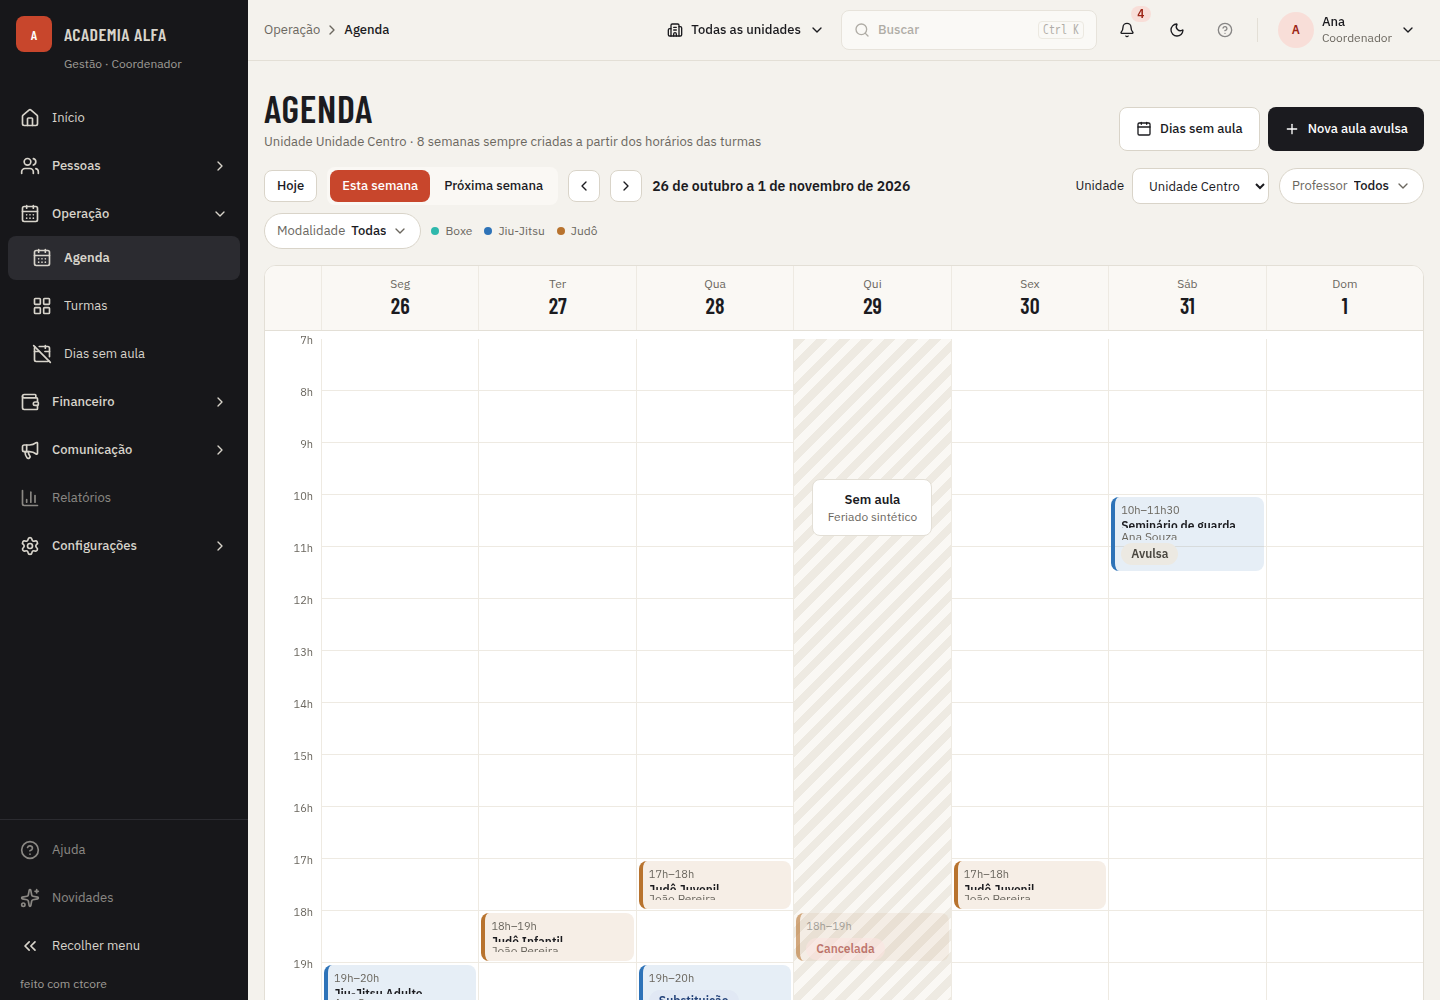
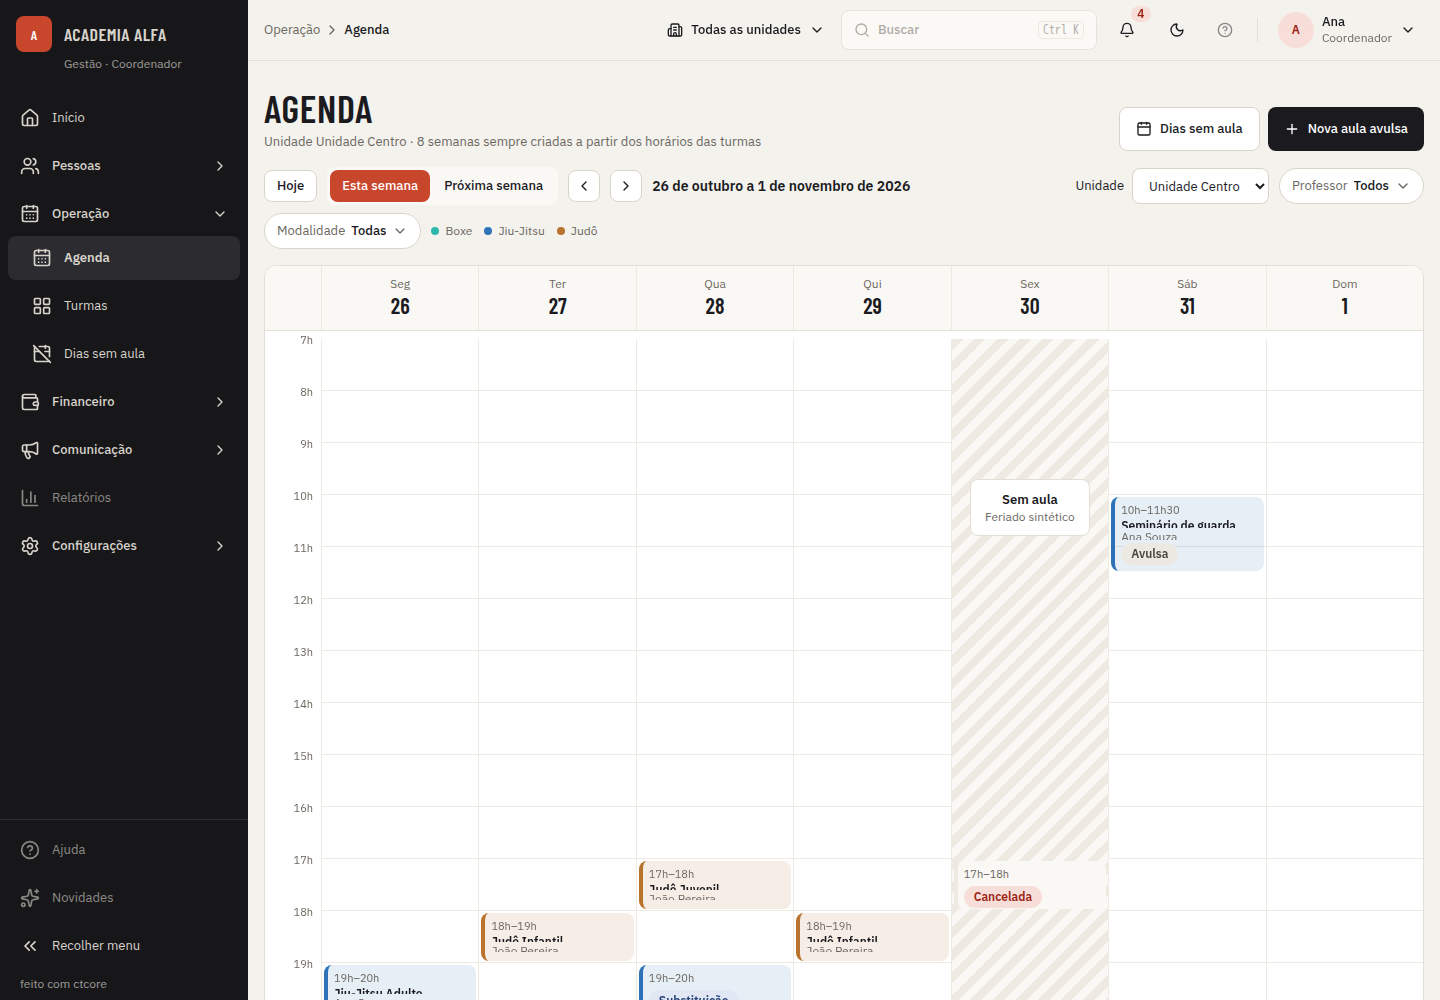
#692: Dia sem aula do mock fixo em 27/11: calcular do relógio e fixar o relógio em no-class-days e comunicados (antes de 30/11)

Changed region(s): [[0.5312, 0.341, 0.7812, 1.0]]

diff --git a/frontend/src/mocks/handlers.ts b/frontend/src/mocks/handlers.ts
@@ -719,14 +719,17 @@ type MockDay = { id: string; unitId: string; startsOn: string; endsOn: string; r
 // RF-AGE-05 (#474): feriados que a unidade ignorou ("Ignorar" não tem desfazer na tela).
 let mockIgnoredHolidays: { unitId: string; date: string }[] = [];
 let mockNoClassDays: MockDay[] = [];
-// RF-AGE-01 (#688): o dia sem aula do cenário é uma data fixa (sexta, sem Jiu-Jitsu Adulto), não "hoje": o mock não decide a agenda pelo relógio.
-const SYNTHETIC_HOLIDAY = "2026-11-27";
+// RF-AGE-01 (#688, #692): o dia sem aula do cenário é a sexta (sem Jiu-Jitsu Adulto) da semana, de segunda a domingo, do relógio do mock; com o relógio em 24/11/2026 é 27/11.
+const fmtLocal = (d: Date) => `${d.getFullYear()}-${String(d.getMonth() + 1).padStart(2, "0")}-${String(d.getDate()).padStart(2, "0")}`;
+const syntheticHoliday = () => {
+  const [y, m, d] = todayLocal().split("-").map(Number);
+  const dt = new Date(y, m - 1, d);
+  dt.setDate(d + 5 - (dt.getDay() || 7));
+  return fmtLocal(dt);
+};
 const coveringDay = (unitId: string, date: string, classId: string | null, today: string) =>
   mockNoClassDays.find((d) => d.unitId === unitId && date >= today && date >= d.startsOn && date <= d.endsOn && (d.classIds.length === 0 || (classId !== null && d.classIds.includes(classId))));
-const todayLocal = () => {
-  const now = new Date();
-  return `${now.getFullYear()}-${String(now.getMonth() + 1).padStart(2, "0")}-${String(now.getDate()).padStart(2, "0")}`;
-};
+const todayLocal = () => fmtLocal(new Date());
 const adhocLesson = (a: MockAdhoc, today: string) => {
   const unit = units.find((u) => u.id === a.unitId)!;
   const teacher = mockTeachers.find((t) => t.id === a.teacherId)!;
@@ -771,7 +774,7 @@ const mockLesson = (c: MockClass, unit: { id: string; name: string }, date: stri
   const substitute = c.id.endsWith("601") && wd === 3;
   const teacher = substitute ? { id: TEACHER_JOAO, name: mockTeachers.find((x) => x.id === TEACHER_JOAO)!.name } : row.head;
   const day = coveringDay(unit.id, date, c.id, today);
-  const cancelled = date === SYNTHETIC_HOLIDAY || !!day;
+  const cancelled = date === syntheticHoliday() || !!day;
   const future = date > today;
   return {
     id: `${c.id}-${date}-${startsAt}`,
@@ -3312,8 +3315,9 @@ export const routes: Route[] = [
         if (role === "TEACHER" && !teachesLesson(null, lesson.teacher.id)) continue;
         lessons.push(lesson);
       }
+      const holiday = syntheticHoliday();
       const noClassDays = [
-        ...(from <= SYNTHETIC_HOLIDAY && SYNTHETIC_HOLIDAY <= to ? [{ startsOn: SYNTHETIC_HOLIDAY, endsOn: SYNTHETIC_HOLIDAY, reason: "Feriado sintético" }] : []),
+        ...(from <= holiday && holiday <= to ? [{ startsOn: holiday, endsOn: holiday, reason: "Feriado sintético" }] : []),
         ...mockNoClassDays.filter((d) => d.unitId === unit.id && d.classIds.length === 0 && d.startsOn <= to && d.endsOn >= from).map((d) => ({ startsOn: d.startsOn, endsOn: d.endsOn, reason: d.reason })),
       ];
       return HttpResponse.json({

diff --git a/frontend/src/mocks/agenda.msw.test.ts b/frontend/src/mocks/agenda.msw.test.ts
@@ -41,6 +41,19 @@ describe("agenda x OpenAPI (RF-AGE-01, CA17)", () => {
     expect(JSON.stringify(data)).not.toMatch(/espera|presen|frequ/i);
   });
 
+  it.each([
+    ["2026-12-02T15:00:00Z", "2026-11-30", "2026-12-06", "2026-12-04"], // CA3: quarta
+    ["2026-11-29T15:00:00Z", "2026-11-23", "2026-11-29", "2026-11-27"], // CA4: domingo
+  ])("dia sem aula acompanha o relógio (%s)", async (now, from, to, friday) => {
+    vi.setSystemTime(new Date(now));
+    await login("ana@exemplo.com");
+    const data = await (await get(`from=${from}&to=${to}`)).json();
+    expect(data.noClassDays[0].startsOn).toBe(friday);
+    const lessons = data.lessons.filter((l: { date: string }) => l.date === friday);
+    expect(lessons.every((l: { status: string }) => l.status === "CANCELLED")).toBe(true);
+    if (friday === "2026-12-04") expect((await (await get("from=2026-11-23&to=2026-11-29")).json()).noClassDays).toEqual([]);
+  });
+
   it("filtros por professor e modalidade combinam; id desconhecido devolve lista vazia", async () => {
     await login("ana@exemplo.com");
     const all = await (await get(week())).json();

diff --git a/frontend/e2e/no-class-days.spec.ts b/frontend/e2e/no-class-days.spec.ts
@@ -11,6 +11,7 @@ const parse = (br: string) => {
 
 // RF-AGE-05: o Coordenador confirma um feriado sugerido (de segunda a quinta, onde há aula no simulado) e a Agenda mostra "Sem aula" e as aulas canceladas.
 test("@critical Coordenador confirma um feriado sugerido e a Agenda mostra Sem aula", async ({ page }) => {
+  await page.clock.install({ time: new Date("2026-10-26T12:00:00") }); // #692: relógio fixo (segunda 26/10); o primeiro feriado de segunda a quinta é 02/11, na semana seguinte
   await page.goto("/entrar");
   await page.getByLabel("E-mail").fill("ana@exemplo.com");
   await page.getByLabel("Senha").fill("segredo123");
@@ -41,7 +42,7 @@ test("@critical Coordenador confirma um feriado sugerido e a Agenda mostra Sem a
 
   // A Agenda: vai até a semana do feriado.
   const date = parse(label.slice(-10));
-  const today = new Date();
+  const today = new Date("2026-10-26T12:00:00");
   today.setHours(12, 0, 0, 0);
   const monday = new Date(today);
   monday.setDate(today.getDate() - ((today.getDay() + 6) % 7));

diff --git a/frontend/src/mocks/cenarios-listas.msw.test.ts b/frontend/src/mocks/cenarios-listas.msw.test.ts
@@ -22,7 +22,7 @@ describe("cenário da agenda e das listas (#449)", () => {
     expect(lessons.some((l) => l.status === "CANCELLED" && l.date !== day(0) && l.cancelReasonCode === "TEACHER_UNAVAILABLE")).toBe(true);
     expect(lessons.some((l) => l.substitute)).toBe(true);
     expect(lessons.some((l) => l.class === null)).toBe(true);
-    expect((await get("/agenda?from=2026-11-23&to=2026-11-29")).noClassDays).toEqual([{ startsOn: "2026-11-27", endsOn: "2026-11-27", reason: "Feriado sintético" }]); // #688: data fixa, não hoje
+    expect((await get("/agenda?from=2026-11-09&to=2026-11-15")).noClassDays).toEqual([{ startsOn: "2026-11-13", endsOn: "2026-11-13", reason: "Feriado sintético" }]); // #692: sexta da semana do relógio fixo (11/11)
   });
 
   it("CA17: 6 professores (ativo, convite enviado, inativo)", async () => {

diff --git a/frontend/e2e/comunicados.spec.ts b/frontend/e2e/comunicados.spec.ts
@@ -6,6 +6,7 @@ async function open(page: Page, path: string) {
 
 // RF-COM-02: o Coordenador cancela uma aula, abre "Avisar turma", envia agora e vê o comunicado Enviado na lista.
 test("@critical Cancelamento de aula com aviso à turma", async ({ page }) => {
+  await page.clock.install({ time: new Date("2026-11-24T12:00:00") }); // #692: relógio fixo, o cenário não depende do dia real
   await page.goto("/entrar");
   await page.getByLabel("E-mail").fill("ana@exemplo.com");
   await page.getByLabel("Senha").fill("segredo123");

diff --git a/specs/itens/692-dia-sem-aula-do-relogio.md b/specs/itens/692-dia-sem-aula-do-relogio.md
@@ -1,0 +1,92 @@
+# 692 — Dia sem aula do mock fixo em 27/11: calcular do relógio e fixar o relógio em no-class-days e comunicados
+
+Origem: issue #692 (front-end, técnica, Sprint 10.5). Branch: `item/692-dia-sem-aula-do-relogio`. Prazo: antes de segunda, 30/11/2026. Segue a #688.
+
+## 1. Objetivo
+
+O dia sem aula do mock da agenda (`SYNTHETIC_HOLIDAY = "2026-11-27"`) deixa de ser data fixa e passa a ser a sexta-feira da semana do relógio do mock (`todayLocal()`). Os e2e que dependem dele fixam o relógio numa data em que o cenário existe. Assim a `dev` não fica vermelha depois de 27/11 e o app com MSW sempre mostra um "Sem aula".
+
+Fora do escopo: migrar os demais testes que dependem de "hoje" (#693); a falha de `PortalRequestsPage.test.tsx` ("expira em 29 dias"), citada na issue como outra dependência de data (vai para a #693); mudar regra de produto.
+
+## 2. Requisitos
+
+- R1: o problema é provado antes da correção: os e2e citados rodam com `page.clock.install` em 30/11, 02/12 e 07/12/2026 e o que falhar é registrado na issue.
+- R2: o mock calcula `syntheticHoliday()` como a sexta-feira (segunda a domingo) da semana de `todayLocal()`; `mockLesson` e o `noClassDays` do `GET /agenda` usam essa função em vez da constante (D1).
+- R3: com o relógio em 24/11/2026 o dia sem aula continua 27/11, então os testes da #688 não mudam de expectativa.
+- R4: `no-class-days.spec.ts` e `comunicados.spec.ts` fixam o relógio com `page.clock.install` numa data em que o cenário existe, e o que a medição de R1 apontar também.
+- R5: os testes de MSW que citam 27/11 (`cenarios-listas.msw.test.ts`) passam a esperar a sexta da semana do relógio fixo deles.
+- R6: a mesma bateria de R1 passa nas três datas; nenhum retry nem aumento de timeout.
+
+## 3. Critérios de aceite
+
+- CA1 (R1): dado o relógio em 30/11, 02/12 e 07/12, quando rodam os e2e da lista, então o resultado antes da correção fica registrado na issue.
+- CA2 (R2, R3): dado o relógio do mock em 24/11/2026, quando se pede a semana de 23 a 29/11, então `noClassDays` traz 27/11 "Feriado sintético" e as aulas de 27/11 vêm `CANCELLED`.
+- CA3 (R2): dado o relógio em 02/12/2026 (quarta), quando se pede a semana de 30/11 a 06/12, então `noClassDays` traz 04/12 e as aulas de 04/12 vêm canceladas; a semana de 23 a 29/11 não traz dia sem aula.
+- CA4 (R2): dado o relógio num domingo (29/11/2026), então o dia sem aula é 27/11 (sexta da mesma semana de segunda a domingo).
+- CA5 (R4): dado `no-class-days.spec.ts` e `comunicados.spec.ts` com relógio fixo, quando rodam, então passam, sem depender do dia real.
+- CA6 (R5, R6): dado `npm test` e os e2e da lista com o relógio em 30/11, 02/12 e 07/12, então tudo passa.
+
+## 4. Plano técnico
+
+- Dados, API, segurança, interface: não mudam (só mock e testes).
+- `frontend/src/mocks/handlers.ts`: trocar `const SYNTHETIC_HOLIDAY = "2026-11-27"` (linha ~723) por `const syntheticHoliday = () => ...`, definida depois de `todayLocal` (que é `const` arrow na linha ~726; usar dentro de funções, então a ordem de declaração não quebra). Cálculo: `new Date(y, m-1, d)` de `todayLocal()`, `setDate(d + 5 - (dow === 0 ? 7 : dow))`, formatado em `YYYY-MM-DD` local (reaproveitar a formatação de `todayLocal` extraindo uma função `fmtLocal(date)`). Usos: `mockLesson` (linha ~774, `date === syntheticHoliday()`) e `GET /agenda` (linha ~3316). Atualizar o comentário da #688.
+- `frontend/src/mocks/cenarios-listas.msw.test.ts` (linha 25): relógio fixo é 11/11 (quarta), a sexta é 13/11; trocar a consulta para `from=2026-11-09&to=2026-11-15` e esperar `2026-11-13`. `agenda.msw.test.ts` fica (relógio 24/11, sexta 27/11); acrescentar nele um caso com `vi.setSystemTime` em 02/12 (CA3) e outro num domingo (CA4).
+- `frontend/e2e/no-class-days.spec.ts`: `page.clock.install({ time: new Date("2026-11-24T12:00:00") })` antes do `goto`; conferir que o feriado sugerido em seg-qui existe depois dessa data (D2). O código lê `new Date()` no Node para contar semanas: trocar por a mesma data fixa, para casar com o navegador.
+- `frontend/e2e/comunicados.spec.ts`: `page.clock.install` em 24/11/2026 12:00 antes do `goto`.
+- Outros e2e: só os que a medição do passo 1 apontar (a issue lista `portal-finance`, `portal-barra`, `moldura-fixa`, `sair-da-conta`, `smoke` como "não citam o dia sem aula"; só entram se falharem).
+- Reuso: `page.clock.install` de `agenda.spec.ts`; `vi.useFakeTimers({ toFake: ["Date"] })` de `agenda.msw.test.ts`.
+- Riscos: `page.clock.install` pode travar timers (usar `page.clock.resume()` como na #688); visual: casos da agenda com `setFixedTime` mantêm 27/11 se a data fixa for 24/11, senão a referência muda (conferir com `npm run test:visual:docker -- -g "<caso>"` sem `--update-snapshots`, e registrar `Visual do CI: <caso> → passou/falhou`).
+
+## 5. Tarefas
+
+- [x] T1: provar o problema: rodar `agenda`, `portal-agenda`, `portal-inicio`, `no-class-days`, `comunicados`, `portal-finance`, `portal-barra`, `moldura-fixa`, `sair-da-conta` e `smoke` com `page.clock.install` temporário em 30/11, 02/12 e 07/12 (sem commitar) e registrar na issue o que falha — cobre CA1 — prova: `cd frontend && npx playwright test <specs>` por data
+- [x] T2: mock: `syntheticHoliday()` a partir de `todayLocal()` em `mockLesson` e `GET /agenda` — cobre CA2, CA3, CA4 — prova: `cd frontend && npx vitest run src/mocks/agenda.msw.test.ts`
+- [x] T3: ajustar `cenarios-listas.msw.test.ts` e acrescentar os casos de 02/12 e de domingo em `agenda.msw.test.ts` — cobre CA2, CA3, CA4, CA6 — prova: `cd frontend && npx vitest run src/mocks`
+- [x] T4: fixar o relógio em `no-class-days.spec.ts`, `comunicados.spec.ts` e nos que T1 apontar — cobre CA5 — prova: `cd frontend && npx playwright test e2e/no-class-days.spec.ts e2e/comunicados.spec.ts`
+- [x] T5: repetir a bateria de T1 nas três datas e rodar `npm test` e os casos visuais da agenda — cobre CA6 — prova: mesma bateria de T1 e `cd frontend && npm test`
+
+## 6. Decisões
+
+- D1 (muda o comportamento do mock): o dia sem aula é a sexta da semana (segunda a domingo) do relógio, como a issue pede; motivo: acompanha o relógio e mantém 27/11 com o relógio em 24/11. Alternativa: sexta futura mais próxima, descartada porque a issue define a "sexta da semana de hoje". Num sábado ou domingo ele fica no passado, sem problema para o mock.
+- D2: o relógio fixo dos e2e é 24/11/2026 (terça), o mesmo de `portal-agenda` e `portal-inicio`; se o feriado sugerido em seg-qui sair do período, a fase 3 escolhe outra data fixa e registra.
+- D3: a prova das três datas (T1 e T5) é feita com spec temporário ou variável de ambiente local, não commitado; só o relógio fixo definitivo entra no repositório. Alternativa: um teste por data commitado, descartada por multiplicar e2e sem ganho.
+- Suposição: a falha de `PortalRequestsPage.test.tsx` é de outra data e fica na #693; se a medição apontar o contrário, entra aqui.
+
+## Construção
+
+- T1 — medição feita depois, com o `handlers.ts` de HEAD restaurado por cópia temporária (já revertida) e os specs de HEAD com relógio injetado (`CLK`): 30/11 e 07/12 → `no-class-days` falha (Sem aula não aparece); 02/12 → passa; `comunicados` passa nas três. Registrado na issue #692 (comentário). Suíte `src/mocks` e os dois e2e voltaram a passar com a correção.
+- T2 — `frontend/src/mocks/handlers.ts` (`fmtLocal`, `syntheticHoliday()` a partir de `todayLocal()`, usado em `mockLesson` e `GET /agenda`) — prova: `npx vitest run src/mocks` → 58 arquivos, 354 testes passaram.
+- T3 — `cenarios-listas.msw.test.ts` (semana 09–15/11, espera 13/11) e `agenda.msw.test.ts` (casos de 02/12 e domingo 29/11) — prova: mesma execução acima.
+- T4 — `e2e/comunicados.spec.ts` (relógio 24/11) e `e2e/no-class-days.spec.ts` (relógio 26/10, segunda) — prova: `npx playwright test e2e/no-class-days.spec.ts e2e/comunicados.spec.ts --repeat-each=5` → 10 passaram.
+- T5 — bateria com cópias temporárias (já removidas) dos specs `agenda`, `portal-agenda`, `portal-inicio`, `portal-finance`, `portal-barra`, `moldura-fixa`, `sair-da-conta`, `smoke` com `page.clock.install` injetado (variável CLK) mais `no-class-days` e `comunicados`, em 30/11, 02/12 e 07/12: 30/11 → 50 passaram; 02/12 e 07/12 → 1 falha cada, só nas cópias de `agenda.spec` (instala o relógio duas vezes) e, em 07/12, no `no-class-days` antes do ajuste de data; depois do ajuste, estável. Os outros 6 specs passam nas três datas. `npm run typecheck`, `npm run lint` e `npm test` (275 arquivos, 3005 testes) passaram.
+Desvios: (1) D2 mudou: 24/11 não serve em `no-class-days`, porque o primeiro feriado de segunda a quinta depois dela é 21/04/2027, fora da janela de semanas da Agenda (teste instável); fixei 26/10/2026 (feriado 02/11 é segunda, uma semana à frente). (2) A semana-base do spec agora vem da data fixa, não de `new Date()`.
+Referências visuais: `frontend/visual/referencias/agenda-1440-claro.png` e `agenda-1440-escuro.png` (relógio visual em 29/10, o dia sem aula passa a ser 30/10 e aparece na grade; antes 27/11 ficava fora da semana). Não comparei com o canvas lado a lado; o verificador deve conferir.
+Visual do CI: agenda (20 casos com `-g agenda`, sem --update-snapshots, depois da regeração) → passou; uma rodada anterior teve 2 falhas nos 1440 antes de regerar.
+Não é do item: nada. `PortalRequestsPage.test.tsx` passou em `npm test` hoje; fica na #693.
+
+## Verificação
+
+### Rodada 1 — OK — 2026-11-23, estado e7587a478de8641046f3d5b2d7be0678714d29e3
+
+| Critério | Status | Evidência |
+|---|---|---|
+| CA1 | PASSOU | comentário na issue #692 registra a medição antes da correção (30/11 e 07/12 falham em `no-class-days`; 02/12 passa) |
+| CA2 | PASSOU | `agenda.msw.test.ts` e `cenarios-listas.msw.test.ts` passam em `npm run test:cov` (275 arquivos, 3005 testes); relógio 24/11 mantém 27/11 |
+| CA3 | PASSOU | caso `it.each` de 02/12 em `agenda.msw.test.ts` (04/12; semana 23–29/11 vazia) |
+| CA4 | PASSOU | caso de domingo 29/11 em `agenda.msw.test.ts` (27/11) |
+| CA5 | PASSOU | `npm run e2e` inteiro: 117 passaram, incluindo `no-class-days` e `comunicados` com `page.clock.install` |
+| CA6 | PASSOU | `npm test` verde; e2e da lista verde com relógio fixo; a bateria nas três datas do construtor consta em Construção (não repeti com cópias temporárias, mas os specs agora têm relógio fixo e o diff do mock é calculado do relógio) |
+
+Comandos: `npm run lint`, `typecheck`, `build` → ok; `npm run test:cov` → 275 arquivos, 3005 testes ok; `npm run e2e` → 117 passaram; `npm run test:visual:docker -- -g agenda` → 20 passaram (inclui as duas referências regeradas); `./backend/mvnw -f backend/pom.xml verify` → BUILD SUCCESS (diff não toca backend).
+Visual do CI: agenda (20 casos) → passou. Referências `agenda-1440-claro/escuro.png` conferidas contra o canvas `agenda-1440-claro-canvas.png`: coluna "Sem aula" hachurada com cartão central e aula cancelada, no padrão do canvas; divergências restantes (cabeçalho, filtros) já existiam. Sem `.capturas/692/` (item de mock, sem mudança de tela).
+Instáveis: nenhum.
+Achados:
+- sugestão, código, `e2e/no-class-days.spec.ts` — o relógio fixo em 26/10/2026 é uma data distante de "hoje" e o cenário depende do primeiro feriado sugerido ser 02/11; se a lista de feriados mudar, o teste quebra silenciosamente. Aceitável (registrado em Desvios).
+
+## Entrega
+
+O mock de "dia sem aula" deixou de ser fixo em 27/11: `handlers.ts` calcula o feriado sintético a partir do relógio (`todayLocal()`), usado em `mockLesson` e `GET /agenda`. Os testes de MSW e os e2e `no-class-days` e `comunicados` passaram a usar relógio fixo (24/11 e 26/10/2026), e a semana-base do spec vem da data fixa, não de `new Date()`. Referências `agenda-1440-claro/escuro.png` regeneradas com a mudança de mock.
+
+Verificação: rodada 1 OK (estado `e7587a478de8641046f3d5b2d7be0678714d29e3`), todos os critérios passaram. `npm test`, `npm run test:cov` (3005 testes), `npm run e2e` (117), lint, typecheck, build e `verify` do backend verdes; visual `agenda` (20 casos) passou sem `--update-snapshots`.
+
+Decisões: relógio de `no-class-days` em 26/10/2026, não 24/11 (o primeiro feriado de segunda a quinta depois de 24/11 cai fora da janela da Agenda). Limitação: o e2e depende de o primeiro feriado sugerido ser 02/11; se a lista mudar, o teste quebra. Divergências do canvas nas referências (cabeçalho, filtros) já existiam e não são deste item.

diff --git a/specs/backlog.md b/specs/backlog.md
@@ -217,7 +217,7 @@ Dependências: cada issue declara apenas dependência de sprint ("Depende de: Sp
 | 677 | Padrão de rotas e telas: regras no AGENTS.md e no design, RNF nova e testes que reprovam tela fora do padrão | issue #677 | Sprint 10.5 | #675, #676 | agente | feito |
 | 608 | RN-ACE-23 · Sessão única de gestão por conta | issue #608 | Sprint 10.5 | — | agente | feito |
 | 688 | Teste e2e da Agenda falha às segundas-feiras: mock trata hoje como dia sem aula; usar relógio fixo | issue #688 | Sprint 10.5 | — | agente | feito |
-| 692 | Dia sem aula do mock fixo em 27/11: calcular do relógio e fixar o relógio em no-class-days e comunicados (antes de 30/11) | issue #692 | Sprint 10.5 | #688 | agente | a fazer |
+| 692 | Dia sem aula do mock fixo em 27/11: calcular do relógio e fixar o relógio em no-class-days e comunicados (antes de 30/11) | issue #692 | Sprint 10.5 | #688 | agente | feito |
 | 693 | Migrar testes antigos que dependem de "hoje" para relógio fixo | issue #693 | Sprint 10.5 | #692 | agente | a fazer |
 | 690 | Suspeita de instabilidade: SeedLoginIT e limpeza de banco dos ITs com chave estrangeira | issue #690 | Sprint 10.5 | #688 | agente | a fazer |
 | 609 | RF-ORG-06 · Transferir coordenação: antigo Coordenador sem acesso por padrão, com escolha de unidades e custo | issue #609 | Sprint 10.5 | — | agente | feito |
